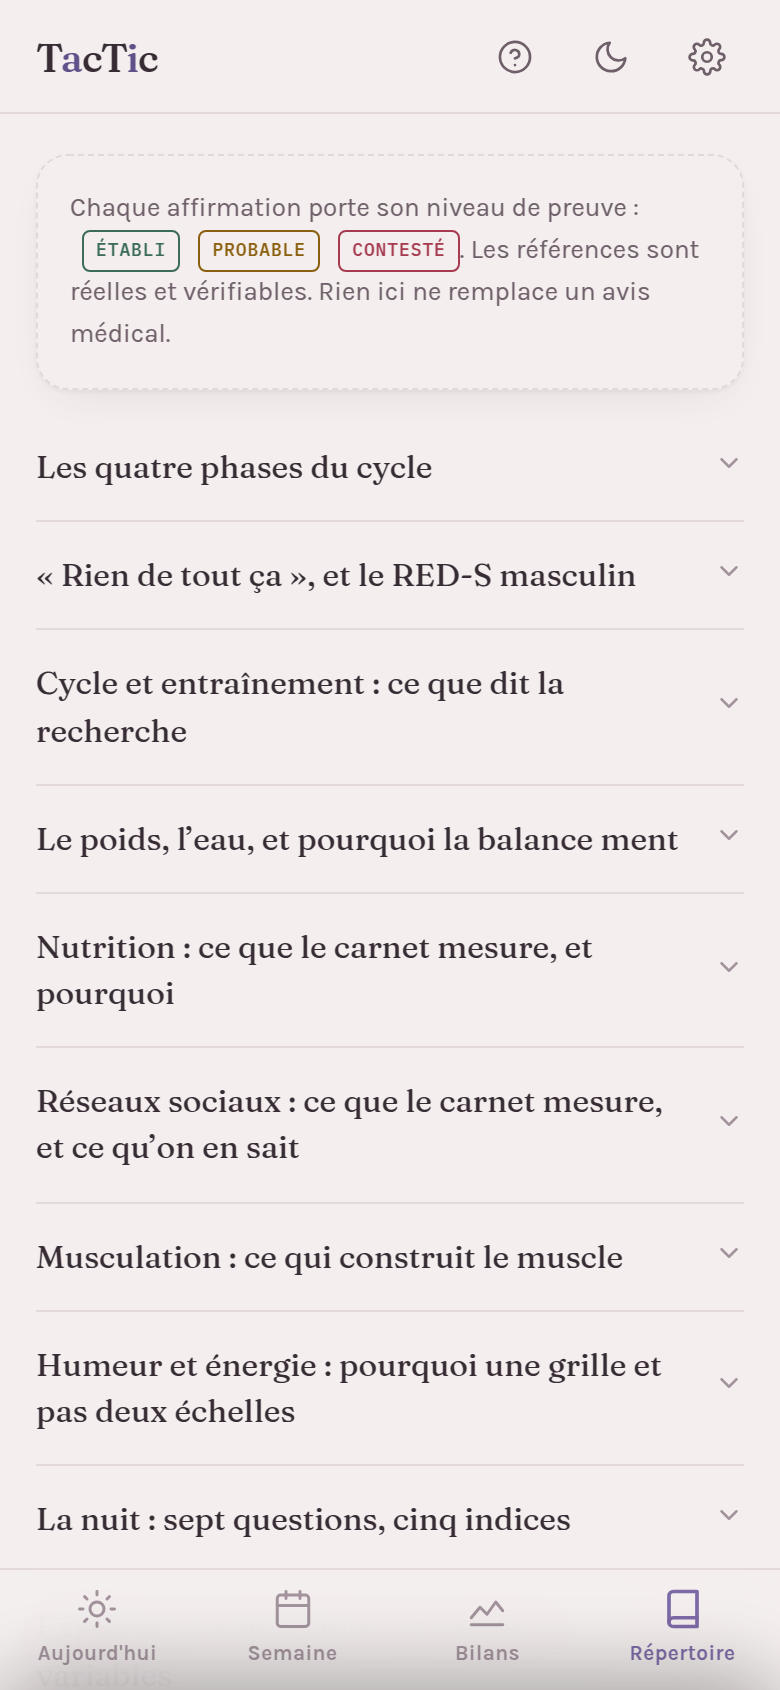
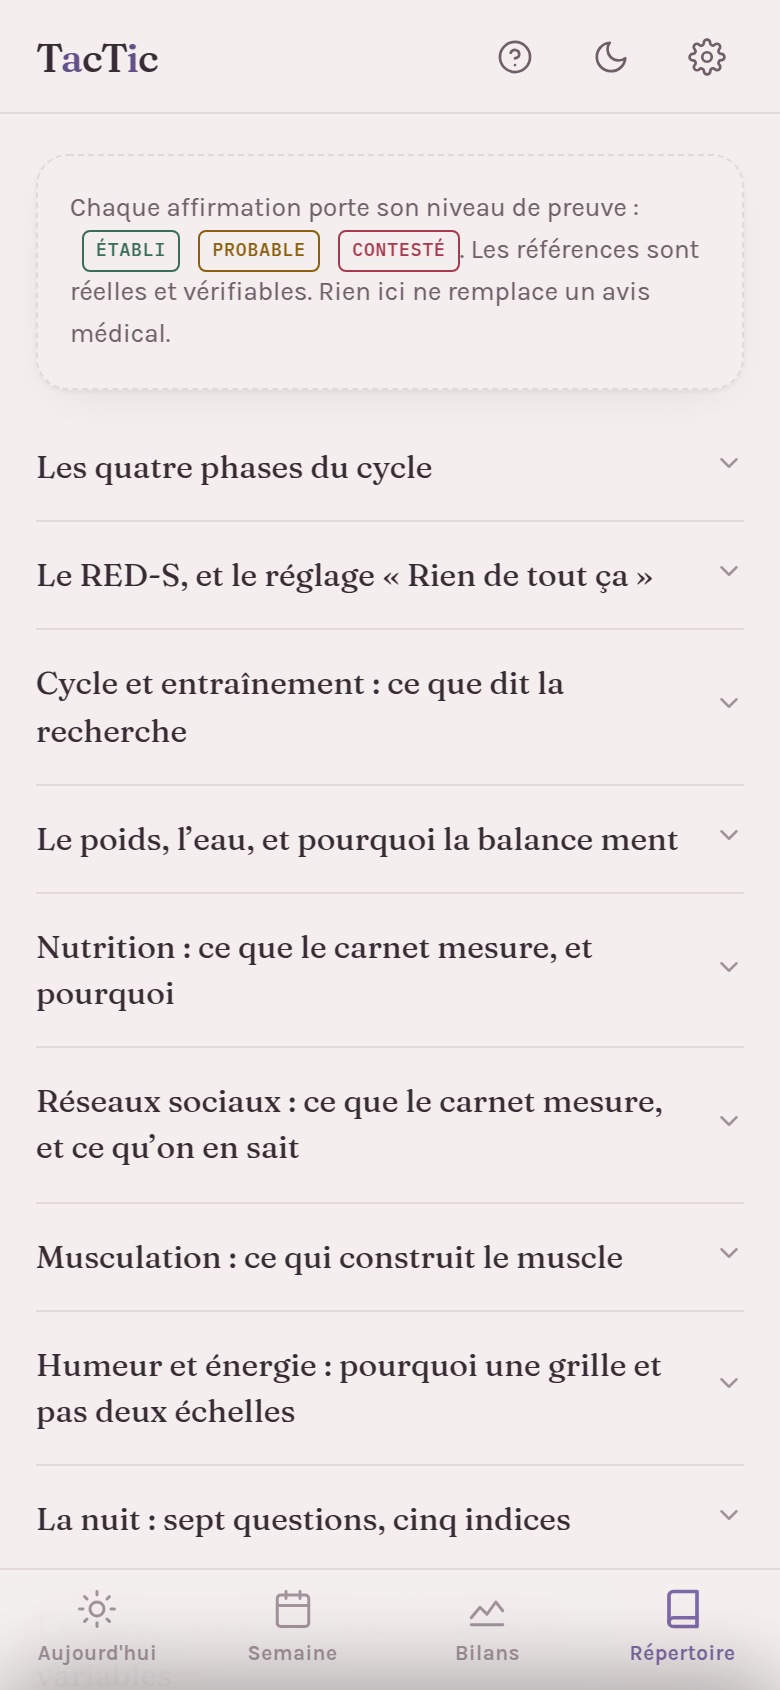
repertoire update

Changed region(s): [[0.0615, 0.3077, 0.8308, 0.3692]]

diff --git a/index.html b/index.html
@@ -1304,7 +1304,7 @@ const Store={
 /* ═══ data ══════════════════════════════════════════════ */
 /* Empreinte de version : sans elle, impossible de savoir si une mise à jour a bien atterri.
    Elle s'affiche dans Réglages → Tes données. */
-const BUILD='2026-07-17l';
+const BUILD='2026-07-17m';
 const DEF={
   version:13,
   settings:{
@@ -3494,43 +3494,30 @@ Chaque cycle possède ainsi sa propre durée de règles. Marquer une fin n'affec
 <p style="margin-top:14px;padding:11px;background:var(--tint);border-radius:10px;font-size:13px">
 Ces bornes sont des moyennes de population. Seul le cycle réel de la personne compte pour lire ses données : n'importe quelle phase peut être corrigée à la main depuis l'écran Aujourd'hui.</p>`},
 
-{k:'noperiod', when:['none','cycles'], t:'« Rien de tout ça », et le RED-S masculin', b:`
-<p>Le réglage « Rien de tout ça » retire le cadran, les marqueurs de règles et les statistiques par phase. Tout le reste du carnet — score, charge, allure, sommeil, humeur, énergie, alimentation — fonctionne à l'identique. Ce réglage couvre plusieurs situations sans rapport entre elles, décrites ci-dessous.</p>
+{k:'noperiod', when:['none','cycles'], t:'Le RED-S, et le réglage « Rien de tout ça »', b:`
+<p>Le réglage « Rien de tout ça » retire le cadran, les marqueurs de règles et les statistiques par phase. Tout le reste — score, charge, allure, sommeil, humeur, énergie, alimentation, interactions, explorateur — fonctionne à l'identique.</p>
+<p>Il couvre trois cas : les <b>hommes</b>, la <b>contraception hormonale continue</b>, et le simple choix de ne pas suivre cet aspect. L'aménorrhée et la ménopause ont leur propre réglage, et leur propre section : elles ne relèvent pas de celui-ci.</p>
+
+<h4>Contraception hormonale continue</h4>
+<p>Sous pilule en continu, implant, stérilet hormonal ou injection, il n'y a pas de cycle physiologique à suivre : les saignements éventuels sont des saignements de privation, pas des règles. Un cadran qui prétendrait afficher une phase folliculaire n'afficherait rien de réel. D'où ce réglage, qui retire le cadran sans rien retirer d'autre.</p>
 
 <h4>Hommes</h4>
 <p>Rien dans ce carnet n'est spécifique à un sexe, hormis le cycle. Le score, la charge (durée × RPE), le RPE, les deux axes d'allure et d'effort perçu, la disponibilité du jour, le signal de fatigue, la relation entre le poids et l'eau, la surcharge progressive, l'explorateur et tout ce qu'il permet de croiser : tout cela est calculé et interprété de façon identique. Ce réglage ne retire donc rien d'utile.</p>
-<p>Un point mérite d'être souligné, parce qu'il est largement méconnu : <b>le RED-S concerne aussi les hommes</b>. Le déficit énergétique relatif dans le sport a longtemps été présenté comme une affaire féminine, à travers la triade de l'athlète féminine dont l'aménorrhée était le signe le plus visible. Le consensus 2023 du Comité international olympique est explicite sur ce point : le syndrome touche <b>tout athlète, quels que soient son genre, son sport et son niveau</b>. Chez l'homme, il se manifeste notamment par une baisse de la testostérone, une perte de densité osseuse, une immunité affaiblie et une performance dégradée — sans le signal d'alerte qu'apporte l'arrêt des règles. L'absence de ce marqueur rend le repérage plus tardif, pas le risque plus faible. <span class="ev solid">établi</span></p>
-<p>Le consensus souligne également le <b>recouvrement entre RED-S et syndrome de surentraînement</b> : deux tableaux cliniques proches, dont l'un se corrige en mangeant davantage. Le signal de fatigue de l'écran Aujourd'hui (énergie basse et charge élevée sur trois jours) est un garde-fou grossier, en aucun cas un dépistage.</p>
+
+<h4>Le RED-S, et pourquoi il figure ici</h4>
+<p><b>De quoi il s'agit.</b> Le RED-S — <em>Relative Energy Deficiency in Sport</em>, déficit énergétique relatif dans le sport — désigne ce qui arrive à un corps qui <b>dépense plus qu'il ne reçoit</b>, de façon durable. Ce n'est ni un trouble alimentaire, ni un manque de volonté : c'est un <b>état physiologique</b>, celui d'un organisme qui, faute de carburant suffisant, réduit les dépenses qu'il juge non vitales.</p>
+<p>La notion clé est la <b>disponibilité énergétique</b> : ce qui reste de l'apport alimentaire une fois l'entraînement payé. Quand ce reste devient trop faible, le corps arbitre. Il coupe d'abord ce qui peut attendre — la reproduction, la construction osseuse, l'immunité, la thermorégulation — et garde ce qui ne peut pas.</p>
+<p>Le consensus 2023 du Comité international olympique en décrit les conséquences sur <b>l'os, l'endocrinien, le métabolisme, le cardiovasculaire, l'immunité, le psychologique</b> — et pas seulement sur la fonction reproductive. Sa prévalence est estimée entre <b>15 et 80 %</b> selon les sports. <span class="ev solid">établi</span></p>
+<p>Deux constats du consensus méritent d'être cités tels quels. Le syndrome <b>passe souvent inaperçu des athlètes elles-mêmes</b>, de leurs entraîneurs et de leurs cliniciens. Et il peut être <b>involontairement aggravé par la culture sportive</b>, en raison des gains de performance à court terme que semble procurer la restriction calorique — avant que la note ne tombe.</p>
+<p><b>Il ne s'agit pas d'une affaire féminine.</b> Le RED-S a longtemps été présenté comme telle, à travers la triade de l'athlète féminine, dont l'aménorrhée était le signe le plus visible. Le consensus est explicite : il touche <b>tout athlète, quels que soient son genre, son sport et son niveau</b>. Chez l'homme, il se manifeste notamment par une baisse de la testostérone, une perte de densité osseuse, une immunité affaiblie et une performance dégradée — <b>sans le signal d'alerte qu'apporte l'arrêt des règles</b>. L'absence de ce marqueur rend le repérage plus tardif, pas le risque plus faible. <span class="ev solid">établi</span></p>
+<p>Le consensus souligne également le <b>recouvrement avec le syndrome de surentraînement</b> : deux tableaux cliniques proches, dont l'un se corrige en mangeant davantage. Confondre les deux conduit à s'entraîner moins là où il aurait fallu manger plus.</p>
+<p><b>Ce que ce carnet peut, et ne peut pas.</b> Le signal de fatigue de l'écran Aujourd'hui — énergie basse et charge élevée sur trois jours — est un garde-fou grossier. Il ne dépiste rien, il ne mesure aucune disponibilité énergétique, et il ne remplace aucun avis. Aucun indicateur ici n'est un dépistage. Un doute se discute avec un professionnel de santé, pas avec une application.</p>
 <div class="ref">
 Mountjoy M, Ackerman KE, Bailey DM, Burke LM, Constantini N, Hackney AC, Heikura IA, Melin A, Pensgaard AM, Stellingwerff T, Sundgot-Borgen JK, Torstveit MK, Jacobsen AU, Verhagen E, Budgett R, Engebretsen L, Erdener U. « 2023 International Olympic Committee's (IOC) consensus statement on Relative Energy Deficiency in Sport (REDs). » <em>British Journal of Sports Medicine</em>, 2023;57(17):1073–1097. doi:10.1136/bjsports-2023-106994
 </div>
-
-<h4>Ménopause et périménopause</h4>
-<p>La ménopause est définie rétrospectivement, après douze mois consécutifs sans règles. La périménopause désigne la période de transition qui la précède, souvent marquée par des cycles irréguliers avant leur arrêt. Sur le plan de la composition corporelle, la baisse durable des œstrogènes s'accompagne d'une perte de masse musculaire et de densité osseuse, et d'une redistribution de la masse grasse vers l'abdomen. <span class="ev solid">établi</span></p>
-<p>Ce que l'exercice y change est documenté par une méta-analyse de 101 essais contrôlés randomisés portant sur 5 697 femmes ménopausées. L'entraînement, tous types confondus, augmente la masse maigre de <b>+0,66 kg</b> (IC 95 % : 0,50 à 0,81), diminue la masse grasse de <b>−1,27 kg</b> (IC 95 % : −1,93 à −0,62), le pourcentage de masse grasse de <b>−1,86 %</b> et le tour de taille de <b>−1,45 cm</b>. Ces effets apparaissent quel que soit l'âge et quelle que soit la durée de l'intervention. <span class="ev solid">établi</span></p>
-<p>La même analyse sépare nettement les deux modalités : <b>l'aérobie agit surtout sur la masse grasse</b> (−1,94 kg, contre −0,45 kg pour la musculation, non significatif), <b>la musculation agit surtout sur la masse musculaire</b> (masse maigre +0,90 kg). D'où la conclusion des auteurs : combiner les deux. <span class="ev likely">probable</span></p>
-<p><b>Conséquence pratique pour ce carnet.</b> À cette période de la vie, le tour de taille et les mensurations deviennent plus informatifs que le poids seul, puisqu'une partie du changement est une redistribution à masse constante. Les deux se saisissent depuis l'écran Semaine, à condition d'avoir activé « Poids et mensurations » dans les réglages.</p>
-<div class="ref">
-Khalafi M, Habibi Maleki A, Sakhaei MH, Rosenkranz SK, Pourvaghar MJ, Ehsanifar M, Bayat H, Korivi M, Liu Y. « The effects of exercise training on body composition in postmenopausal women: a systematic review and meta-analysis. » <em>Frontiers in Endocrinology</em>, 2023;14:1183765. doi:10.3389/fendo.2023.1183765<br><br>
-Shojaa M, von Stengel S, Schoene D, Kohl M, Barone G, Bragonzoni L, et al. « Effect of Exercise Training on Bone Mineral Density in Post-menopausal Women: A Systematic Review and Meta-Analysis of Intervention Studies. » <em>Frontiers in Physiology</em>, 2020;11:652. doi:10.3389/fphys.2020.00652
-</div>
-
-<h4>Aménorrhée</h4>
-<p>Une aménorrhée — absence de règles hors grossesse, allaitement et ménopause — n'est pas une simple « absence de cycle ». C'est un signe clinique, et il mérite un avis médical plutôt qu'un réglage d'application.</p>
-<p>Une des causes possibles concerne directement les personnes qui utiliseraient ce carnet : <b>l'aménorrhée hypothalamique fonctionnelle</b>, liée à une <b>faible disponibilité énergétique</b>, c'est-à-dire un apport alimentaire insuffisant au regard de la dépense à l'entraînement. Elle constitue l'une des trois composantes historiques de la triade de l'athlète féminine, aujourd'hui intégrée au cadre plus large du <b>RED-S</b> (déficit énergétique relatif dans le sport). <span class="ev solid">établi</span></p>
-<p>Le consensus 2023 du Comité international olympique décrit un syndrome qui affecte de multiples systèmes — osseux, endocrinien, métabolique, cardiovasculaire, immunitaire, psychologique — et pas seulement la fonction reproductive. Sa prévalence est estimée entre <b>15 et 80 %</b> selon les sports. Deux constats du consensus méritent d'être cités ici : le syndrome <b>passe souvent inaperçu des athlètes elles-mêmes</b>, de leurs entraîneurs et de leurs cliniciens ; et il peut être <b>involontairement aggravé par la culture sportive</b>, en raison des gains de performance à court terme que semble procurer la restriction calorique. Le consensus souligne également le recouvrement entre RED-S et syndrome de surentraînement. <span class="ev solid">établi</span></p>
-<p style="padding:11px;background:var(--tint);border-radius:10px;font-size:13px;border-left:2.5px solid var(--period)">
-<b>Ce qu'il convient de retenir.</b> Une aménorrhée survenant dans un contexte d'entraînement soutenu, de perte de poids ou de restriction alimentaire justifie une consultation médicale — indépendamment de ce que dit ce carnet, et sans attendre. Aucun indicateur de cette application n'est conçu pour détecter un RED-S, et le score sur 100 n'a pas été construit pour cela. Le signal de fatigue de l'écran Aujourd'hui repère une charge élevée associée à une énergie basse ; c'est un garde-fou grossier, en aucun cas un dépistage.</p>
-<p>Un point de méthode, enfin : dans une situation de faible disponibilité énergétique, un carnet qui suit le poids et l'alimentation peut renforcer ce qu'il devrait alléger. Le réglage « Poids et mensurations », désactivé par défaut, existe précisément pour permettre de suivre l'entraînement, le sommeil et l'humeur sans jamais afficher un chiffre de balance.</p>
-<div class="ref">
-Mountjoy M, Ackerman KE, Bailey DM, Burke LM, Constantini N, Hackney AC, Heikura IA, Melin A, Pensgaard AM, Stellingwerff T, Sundgot-Borgen JK, Torstveit MK, Jacobsen AU, Verhagen E, Budgett R, Engebretsen L, Erdener U. « 2023 International Olympic Committee's (IOC) consensus statement on Relative Energy Deficiency in Sport (REDs). » <em>British Journal of Sports Medicine</em>, 2023;57(17):1073–1097. doi:10.1136/bjsports-2023-106994
-</div>
-
-<h4>Contraception hormonale continue</h4>
-<p>Stérilet hormonal, implant, pilule en continu : l'absence de règles y est attendue et sans conséquence connue sur la santé. Les phases n'ayant plus de signification dans ce contexte, le réglage « Pas de règles » convient.</p>
 
 <h4>Ce qui reste valable dans tous les cas</h4>
-<p>Aucune des mesures centrales de ce carnet ne dépend du cycle. Le score, la charge d'entraînement (durée × RPE), le signal de fatigue, la disponibilité du jour, les deux axes d'allure et d'effort perçu et l'ensemble des croisements entre sommeil, énergie, humeur et alimentation sont calculés à l'identique. Seules disparaissent les comparaisons entre phases.</p>`},
+<p>Les seuils du carnet sont personnels et se règlent : sommeil, pas, eau, charge. Les comparaisons de l'explorateur coupent aux <b>propres médianes</b>, jamais à des normes de population. Le barème du score se modifie item par item. Rien de tout cela ne dépend du cycle, ni d'un sexe.</p>`},
 
 {k:'training', when:['cycles'], t:'Cycle et entraînement : ce que dit la recherche', b:`
 <p>C'est le point sur lequel ce carnet s'écarte le plus de ce qui se lit ailleurs. Le « cycle syncing » — entraîner la force en phase folliculaire, lever le pied en phase lutéale — est très répandu. La base de preuves, elle, est mince.</p>

diff --git a/sw.js b/sw.js
@@ -21,7 +21,7 @@
 
 /* Le nom porte la date : le changer suffit à purger l'ancien cache à l'activation.
    Sans ça, une version corrigée pourrait rester invisible derrière une version gardée. */
-const CACHE = 'tactic-2026-07-17l';
+const CACHE = 'tactic-2026-07-17m';
 
 /* Le strict nécessaire pour démarrer sans réseau. */
 const SHELL = [